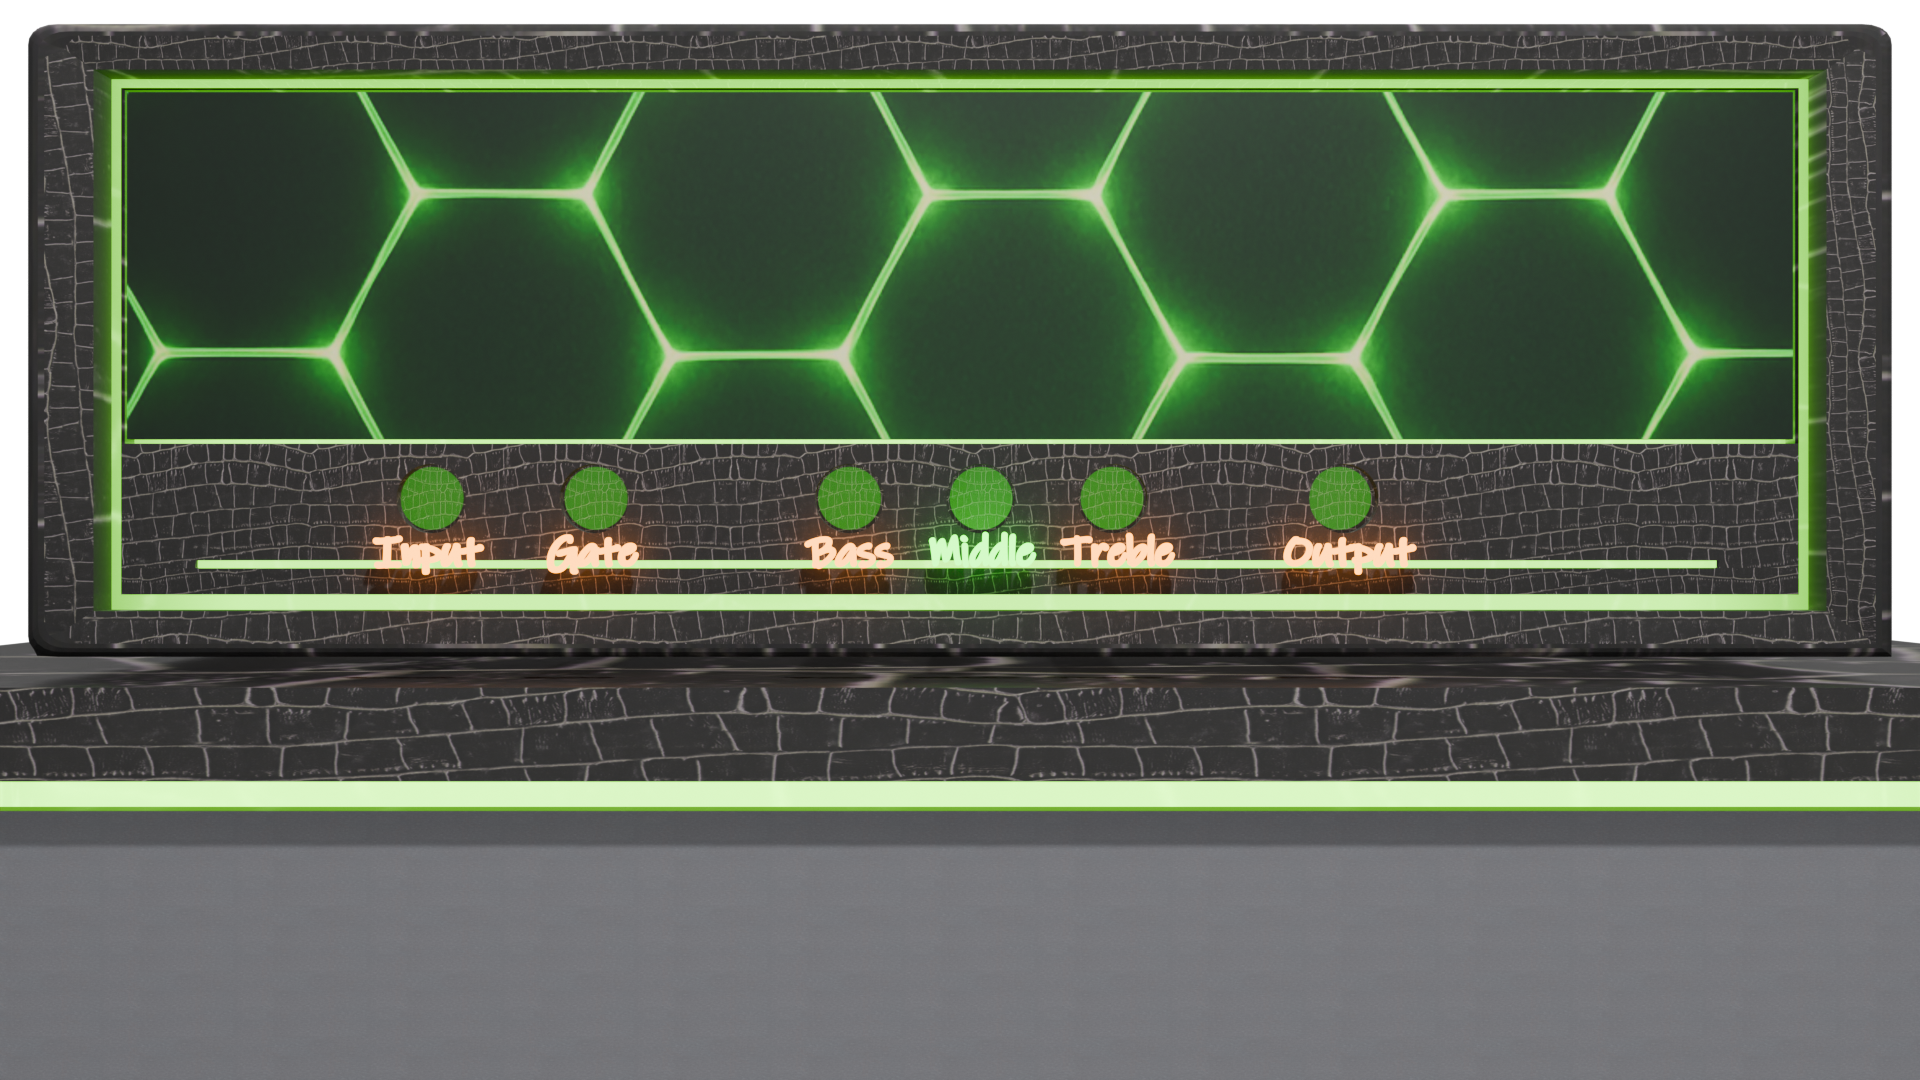
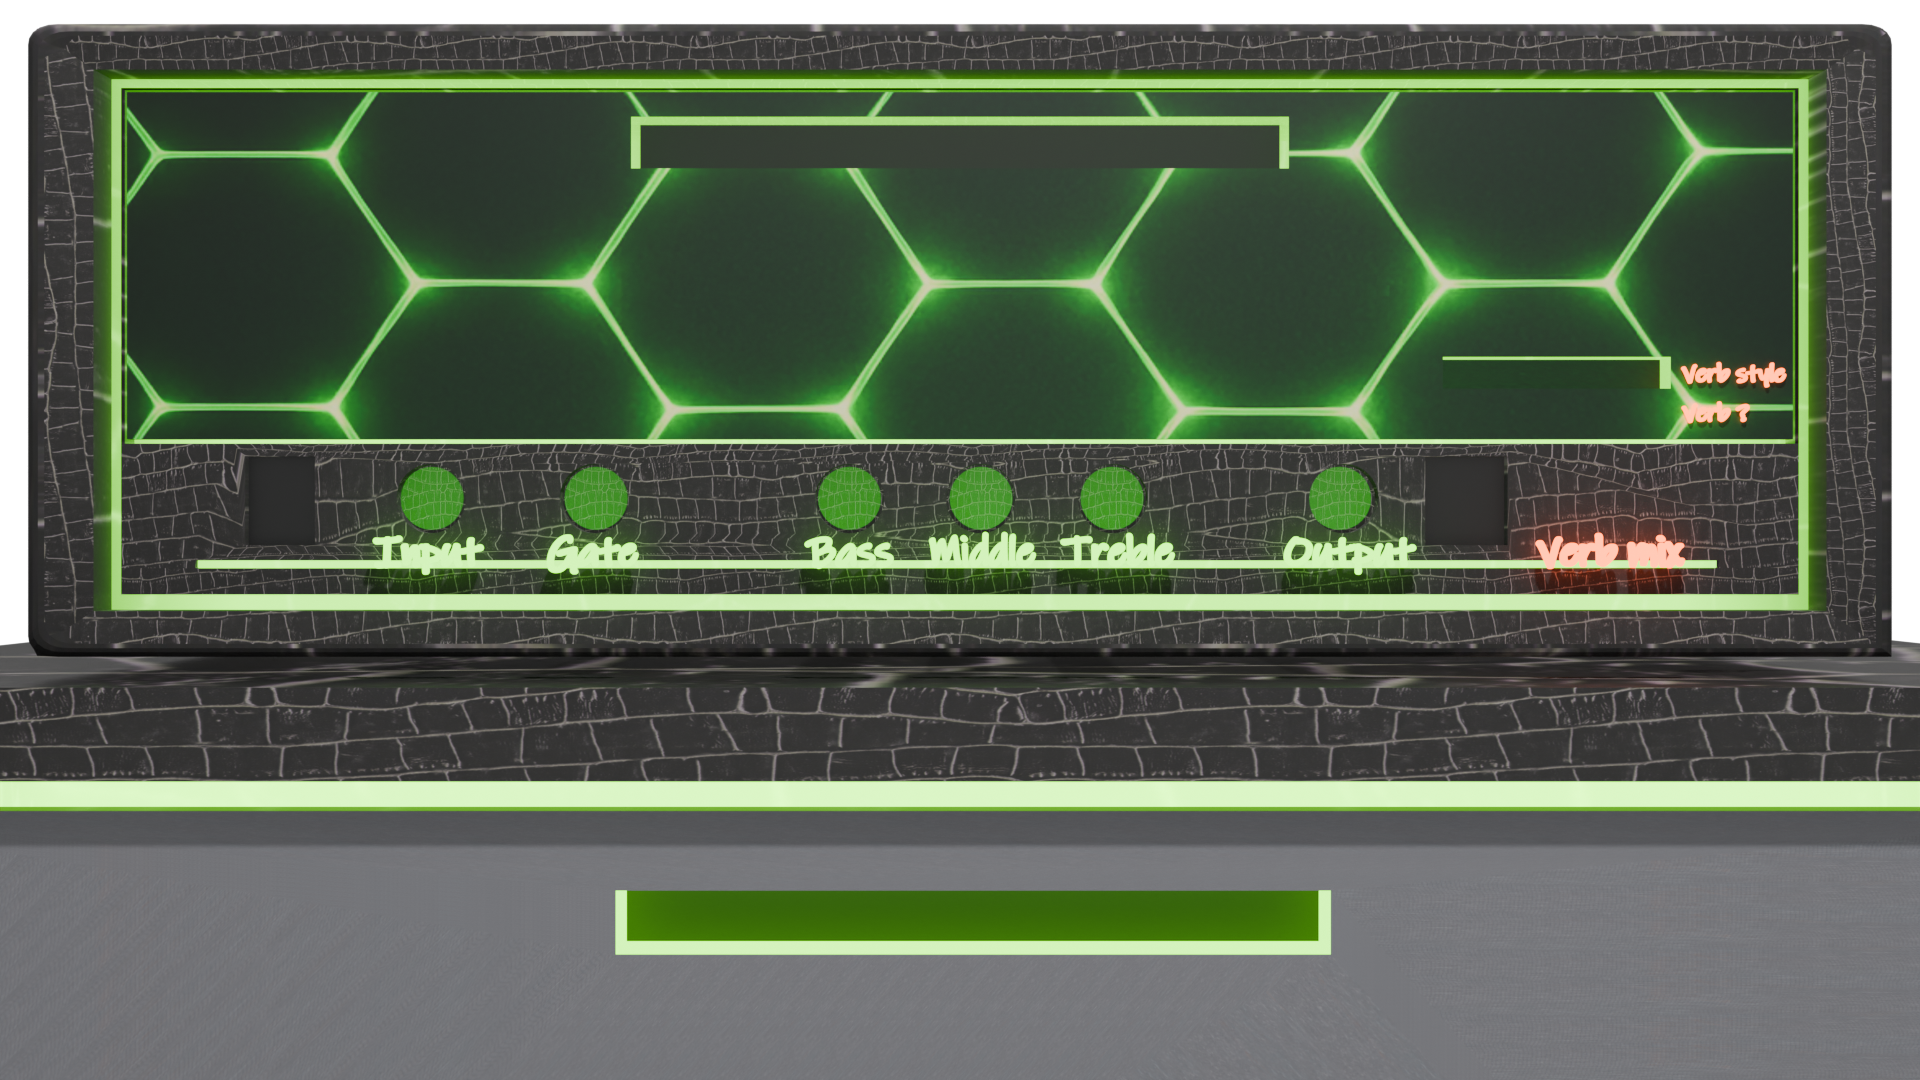
added gui great toggles and fit

Changed region(s): [[0.0625, 0.0917, 0.9375, 0.55], [0.3125, 0.825, 0.7188, 0.8861]]

diff --git a/Source/ui/gui.h b/Source/ui/gui.h
@@ -107,47 +107,47 @@ public:
         mOutputMeterLayout.inLayout.textboxHeight = 20;
 		mOutputMeterLayout.inLayout.textboxPadding = 10;
 
-        mIRButtonLayout.inLayout.x = 850;
-        mIRButtonLayout.inLayout.y = 500;
-        mIRButtonLayout.inLayout.frameWidth = 70;
-        mIRButtonLayout.inLayout.frameHeight = 60;
+        mIRButtonLayout.inLayout.x = 680;
+        mIRButtonLayout.inLayout.y = 455;
+        mIRButtonLayout.inLayout.frameWidth = 30;
+        mIRButtonLayout.inLayout.frameHeight = 30;
 		mIRButtonLayout.inLayout.ratio = 1.f;
         mIRButtonLayout.inLayout.textboxHeight = 0;
 		mIRButtonLayout.inLayout.textboxPadding = 0;
 
-        mNAMButtonLayout.inLayout.x = 850;
-        mNAMButtonLayout.inLayout.y = 50;
-        mNAMButtonLayout.inLayout.frameWidth = 70;
-        mNAMButtonLayout.inLayout.frameHeight = 60;
+        mNAMButtonLayout.inLayout.x = 660;
+        mNAMButtonLayout.inLayout.y = 60;
+        mNAMButtonLayout.inLayout.frameWidth = 30;
+        mNAMButtonLayout.inLayout.frameHeight = 30;
         mNAMButtonLayout.inLayout.ratio = 1.f;
         mNAMButtonLayout.inLayout.textboxHeight = 0;
         mNAMButtonLayout.inLayout.textboxPadding = 0;
 
-        mFileChooserButtonLayout.inLayout.x = 300;
-        mFileChooserButtonLayout.inLayout.y = 500;
-        mFileChooserButtonLayout.inLayout.frameWidth = 400;
-		mFileChooserButtonLayout.inLayout.frameHeight = 40;
+        mFileChooserButtonLayout.inLayout.x = 320;
+        mFileChooserButtonLayout.inLayout.y = 452;
+        mFileChooserButtonLayout.inLayout.frameWidth = 350;
+		mFileChooserButtonLayout.inLayout.frameHeight = 18;
         mFileChooserButtonLayout.inLayout.ratio = 1.f;
 		mFileChooserButtonLayout.inLayout.textboxHeight = 0;
         mFileChooserButtonLayout.inLayout.textboxPadding = 0;
 
-        mNAMChooserButtonLayout.inLayout.x = 300;
-        mNAMChooserButtonLayout.inLayout.y = 50;
-        mNAMChooserButtonLayout.inLayout.frameWidth = 400;
-        mNAMChooserButtonLayout.inLayout.frameHeight = 40;
+        mNAMChooserButtonLayout.inLayout.x = 327;
+        mNAMChooserButtonLayout.inLayout.y = 65;
+        mNAMChooserButtonLayout.inLayout.frameWidth = 323;
+        mNAMChooserButtonLayout.inLayout.frameHeight = 12;
         mNAMChooserButtonLayout.inLayout.ratio = 1.f;
         mNAMChooserButtonLayout.inLayout.textboxHeight = 0;
         mNAMChooserButtonLayout.inLayout.textboxPadding = 0;
 
         mIRVerbButtonLayout.inLayout.x = 800;
-        mIRVerbButtonLayout.inLayout.y = 300;
-		mIRVerbButtonLayout.inLayout.frameWidth = 200;
-        mIRVerbButtonLayout.inLayout.frameHeight = 50;
+        mIRVerbButtonLayout.inLayout.y = 200;
+		mIRVerbButtonLayout.inLayout.frameWidth = 30;
+        mIRVerbButtonLayout.inLayout.frameHeight = 30;
 		mIRVerbButtonLayout.inLayout.ratio = 1.f;
         mIRVerbButtonLayout.inLayout.textboxHeight = 0;
 		mIRVerbButtonLayout.inLayout.textboxPadding = 0;
 
-        mVerbMixKnobLayout.inLayout.x = 800;
+        mVerbMixKnobLayout.inLayout.x = 780;
 		mVerbMixKnobLayout.inLayout.y = 235;
         mVerbMixKnobLayout.inLayout.frameWidth = 135;
 		mVerbMixKnobLayout.inLayout.frameHeight = 153;
@@ -274,6 +274,7 @@ private:
     juce::OwnedArray<juce::File> mNAMFileList;
 
     TopBarComponent mTopBar;
+
     KnobLayout mTopBarLayout;
 
 
@@ -281,6 +282,7 @@ private:
 
     KnobLookAndFeel mKnobLookAndFeel; 
     DropDownLookAndFeel mDropDownLookAndFeel; // Custom LookAndFeel
+    ToggleButtonLookAndFeel mToggleLookAndFeel;
 
     JUCE_DECLARE_NON_COPYABLE_WITH_LEAK_DETECTOR(RootViewComponent)
 };

diff --git a/Source/looknfeel/StripKnob_look_n_feel.h b/Source/looknfeel/StripKnob_look_n_feel.h
@@ -59,9 +59,6 @@ public:
         g.setColour(juce::Colours::limegreen);
         g.drawRect(bounds, 2.0f); // Border thickness of 2.0f
 
-
-      
-
         // Draw the text
         g.setColour(juce::Colours::white);
         g.setFont(label.getFont());
@@ -69,4 +66,65 @@ public:
     }
 private:
     juce::Image mKnobStrip;
+};
+
+
+
+
+class ToggleButtonLookAndFeel : public juce::LookAndFeel_V4
+{
+public:
+    ToggleButtonLookAndFeel()
+    {
+        // Load the strip image from BinaryData
+        auto imageData = BinaryData::toggleButtonStrip_png; // Replace with your strip image name
+        auto imageDataSize = BinaryData::toggleButtonStrip_pngSize; // Replace with your strip image size
+        mToggleStrip = juce::ImageFileFormat::loadFrom(imageData, imageDataSize);
+
+        if (mToggleStrip.isNull())
+            DBG("Failed to load toggle strip image from resources");
+    }
+
+    void drawToggleButton(juce::Graphics& g, juce::ToggleButton& button, bool isMouseOverButton, bool isButtonDown) override
+    {
+        auto bounds = button.getLocalBounds();
+
+        const int numFrames = 2; // Assuming the strip has 2 frames: "off" and "on"
+        const int frameHeight = mToggleStrip.getHeight() / numFrames;
+
+        if (frameHeight <= 0)
+        {
+            DBG("Invalid frameHeight. Check your image dimensions.");
+            return;
+        }
+
+        // Determine the frame to display based on the toggle state
+        int frameIndex = button.getToggleState() ? 1 : 0;
+
+        if (frameIndex * frameHeight >= mToggleStrip.getHeight())
+        {
+            DBG("Invalid frameIndex. Check your calculations.");
+            return;
+        }
+        // Destination coordinates and dimensions
+        int destX = bounds.getX();
+        int destY = bounds.getY();
+        int destWidth = bounds.getWidth();
+        int destHeight = bounds.getHeight();
+
+        // Source coordinates and dimensions
+        int sourceX = 0;
+        int sourceY = frameIndex * frameHeight;
+        int sourceWidth = mToggleStrip.getWidth();
+        int sourceHeight = frameHeight;
+
+        // Draw the appropriate frame from the strip
+        g.drawImage(mToggleStrip,
+            destX, destY, destWidth, destHeight, // Destination
+            sourceX, sourceY, sourceWidth, sourceHeight, // Source
+            false); // Do not fill alpha c
+    }
+
+private:
+    juce::Image mToggleStrip; // The image strip for the toggle button
 };

diff --git a/Source/ui/gui.cpp b/Source/ui/gui.cpp
@@ -108,9 +108,13 @@ void RootViewComponent::configureNodes(juce::AudioProcessor& inProcessor)
     mGateKnob.setSliderStyle(juce::Slider::RotaryVerticalDrag);
     mVerbMixKnob.setSliderStyle(juce::Slider::RotaryVerticalDrag);
 
-    mIRButton.setButtonText("IR");
-    mNAMButton.setButtonText("NAM");
-    mIRVerbButton.setButtonText("IR Verb");
+    //mIRButton.setButtonText("IR");
+    //mNAMButton.setButtonText("NAM");
+    //mIRVerbButton.setButtonText("IR Verb");
+
+    mIRButton.setLookAndFeel(&mToggleLookAndFeel);
+    mNAMButton.setLookAndFeel(&mToggleLookAndFeel);
+    mIRVerbButton.setLookAndFeel(&mToggleLookAndFeel);
 
     mInputKnob.setTextBoxStyle(juce::Slider::TextBoxBelow, false, 50, mInputKnobLayout.inLayout.textboxHeight);
     mGateKnob.setTextBoxStyle(juce::Slider::TextBoxBelow, false, 50, mGateKnobLayout.inLayout.textboxHeight);

diff --git a/Source/AmpAudioProcessor.cpp b/Source/AmpAudioProcessor.cpp
@@ -13,6 +13,7 @@
 #include <filesystem>
 #include <iostream>
 
+
 juce::File AmpAudioProcessor::createJucePathFromFile(const juce::String& filePath)
 {
     juce::File file(filePath); 
@@ -142,6 +143,7 @@ void AmpAudioProcessor::processBlock(AudioBuffer<float>& buffer, MidiBuffer&)
     for (int channel = 0; channel < isMono; ++channel)
     {
         auto* floatData = buffer.getReadPointer(channel);
+
         std::copy(floatData, floatData + numSamples, mFloatBuffer[channel]);
     }
 
